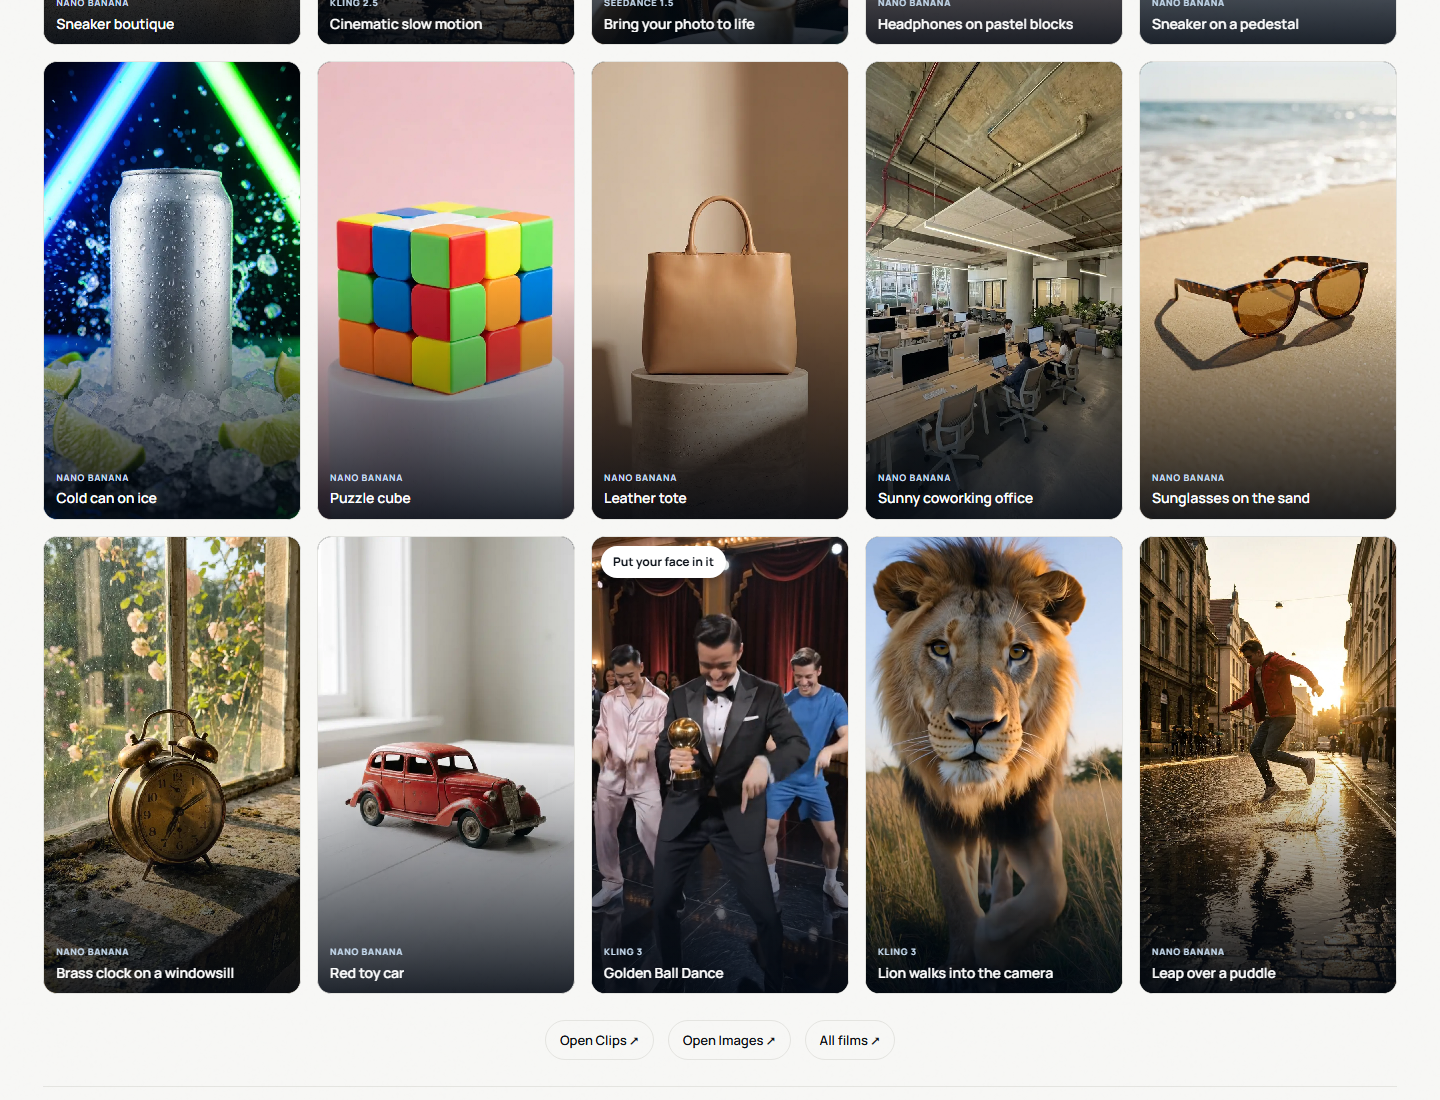
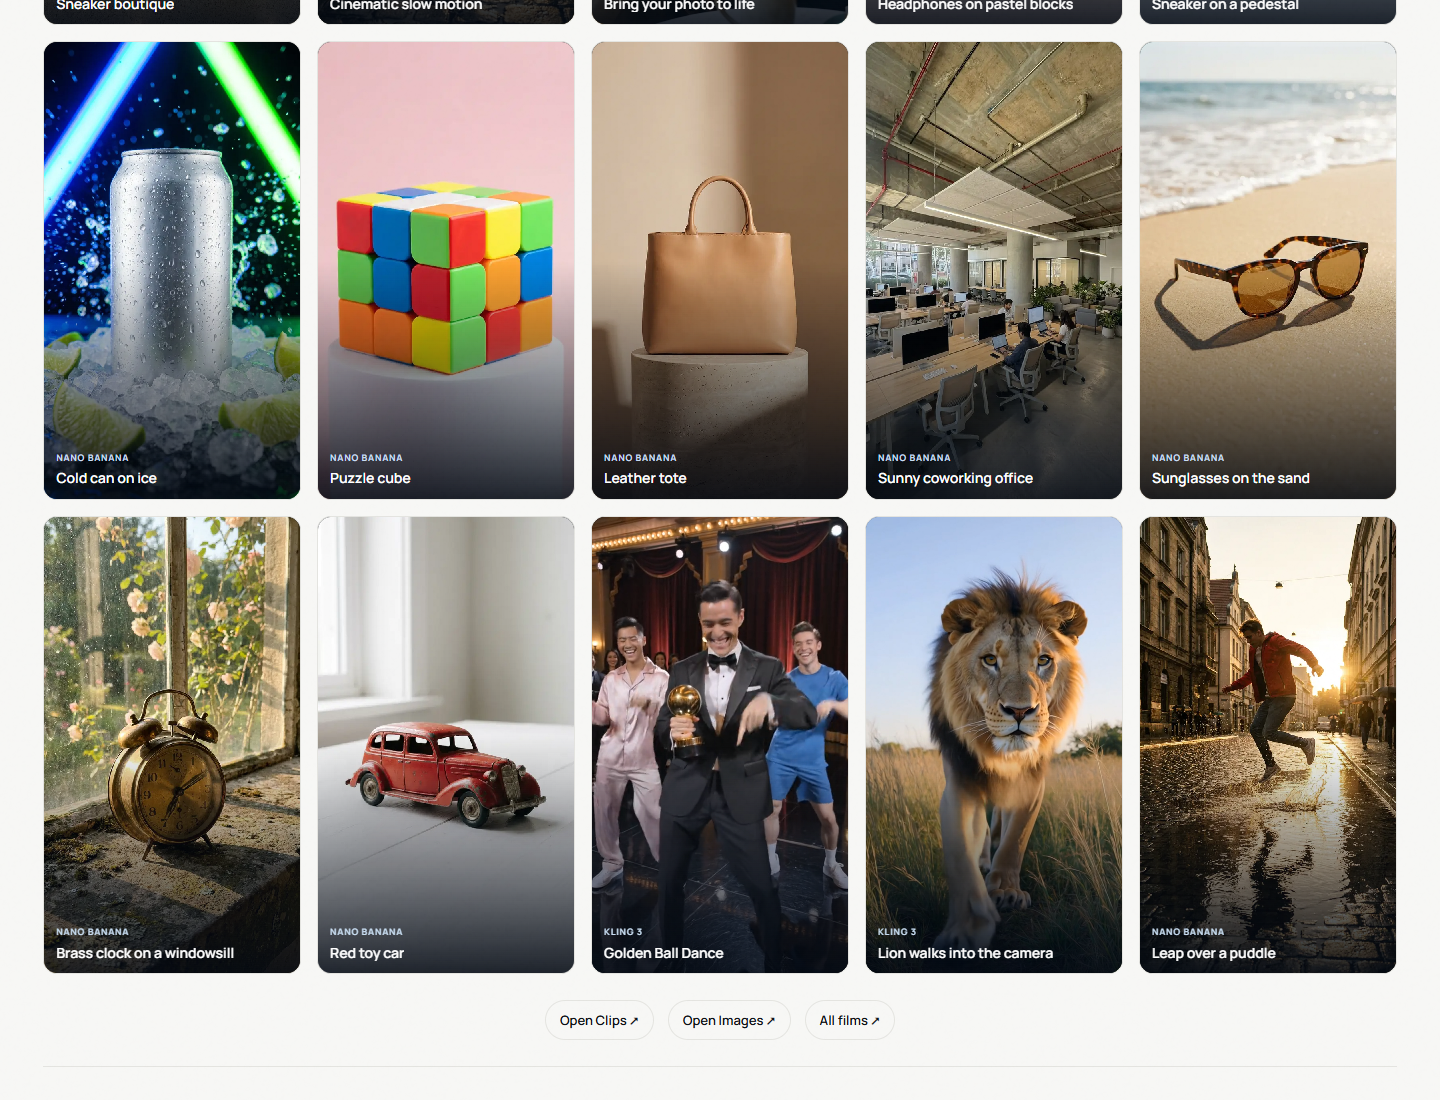
KINEO-ROSTO-NO-CLIPE-2810 botão do rosto só interno até a etapa de quadro-chave
- Teste pago em produção 28/10 (Kling 3 image-to-video, foto + faceScene da Golden Ball): o clipe abre na própria foto
  (parque) com corte seco para a festa, e na festa o rosto é outra pessoa. O i2v usa a foto como 1º quadro; sem uma etapa
  de quadro-chave antes, a identidade não sobrevive em outra cena.
- lib/clips/faceRemix.ts: FACE_REMIX_PUBLIC = false (comentado); hasFaceRemix() devolve false com o interruptor desligado,
  então a galeria /made-with-kineo e a faixa de Clipes da home não mostram mais "Put your face in it". As contas da casa
  seguem com /clips?remix=<id> por faceRemixVisible(isInternal) na rota.
- Guardião: (P) interruptor desligado = nenhum botão público, casa resolve o remix, conta comum leva 404, GET separa casa
  de cliente; mutantes novos (interruptor forçado ligado, botão ignora o interruptor, casa perde o remix, GET aberto,
  galeria/faixa sem perguntar) ficam vermelhos.
- Corrente DESFAZ: este commit só mexe em arquivos nascidos no ramo (sem camada nova); rosto-ajuste-2810 agora presa ao
  tip 85dcf23db (regenerada, bytes iguais). A corrente inteira devolve os 9 arquivos a 24ebecdce.
- docs/previews: home-clips e galeria-fim a 1440 e 375, deslogado, sem a pílula.

diff --git a/lib/clips/faceRemix.ts b/lib/clips/faceRemix.ts
@@ -21,7 +21,10 @@ import { clipCreditCost } from './clipPricing'
 export const FACE_REMIX_MARK = 'KINEO-ROSTO-NO-CLIPE-2810'
 
 /** Interruptor. false = só as contas da casa usam (a rota devolve 404 para o resto, sem ler nada nem cobrar). */
-export const FACE_REMIX_PUBLIC = true // fundador 28/10: "A"
+// Desligado em 28/10: teste pago em produção (Kling 3 image-to-video, foto + faceScene da Golden Ball) perdeu a identidade (o rosto
+// na festa é outra pessoa) e abriu na própria foto (parque) com corte seco para a festa — o i2v usa a foto como 1º quadro. Volta a
+// true só depois da etapa de quadro-chave (ramo separado). As contas da casa seguem com /clips?remix=<id> (faceRemixVisible).
+export const FACE_REMIX_PUBLIC = false // era true (fundador 28/10: "A")
 
 /** Abre o prompt de todo remix: a identidade vem da foto, sempre. */
 export const FACE_REMIX_PREFIX = "Keep the person's face, skin tone, hair and identity exactly as in the photo; the person from the photo is the main character. "
@@ -68,9 +71,9 @@ export function faceRemixById(id: unknown): FaceRemixItem | null {
   return faceRemixItems().find((i) => i.id === id) ?? null
 }
 
-/** O item tem botão? (a galeria e a faixa perguntam aqui — nunca decidem sozinhas). */
-export function hasFaceRemix(id: string): boolean {
-  return faceRemixById(id) !== null
+/** O item tem botão? (a galeria e a faixa perguntam aqui — nunca decidem sozinhas). Interruptor desligado = nenhum botão público. */
+export function hasFaceRemix(id: string, publicFlag: boolean = FACE_REMIX_PUBLIC): boolean {
+  return publicFlag === true && faceRemixById(id) !== null
 }
 
 /** O prompt que vai para o motor — montado SÓ aqui, no servidor. */
